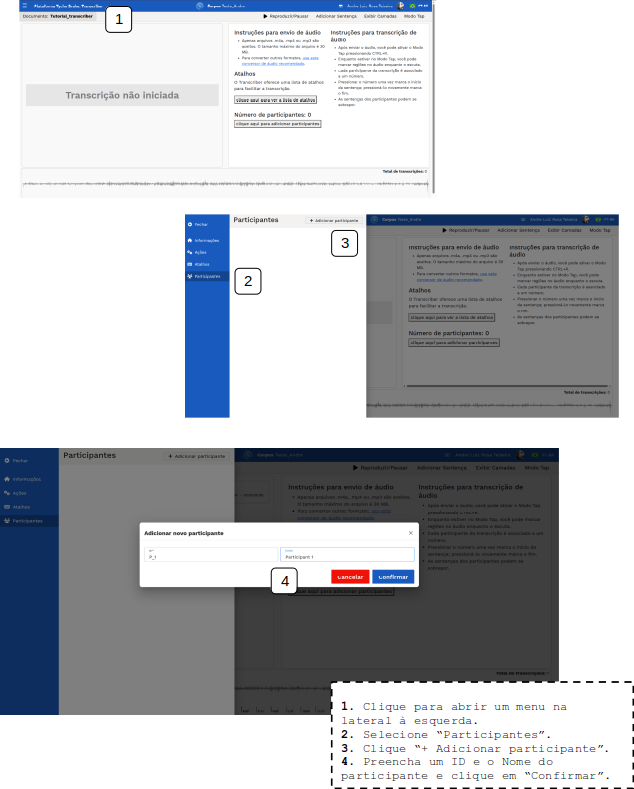
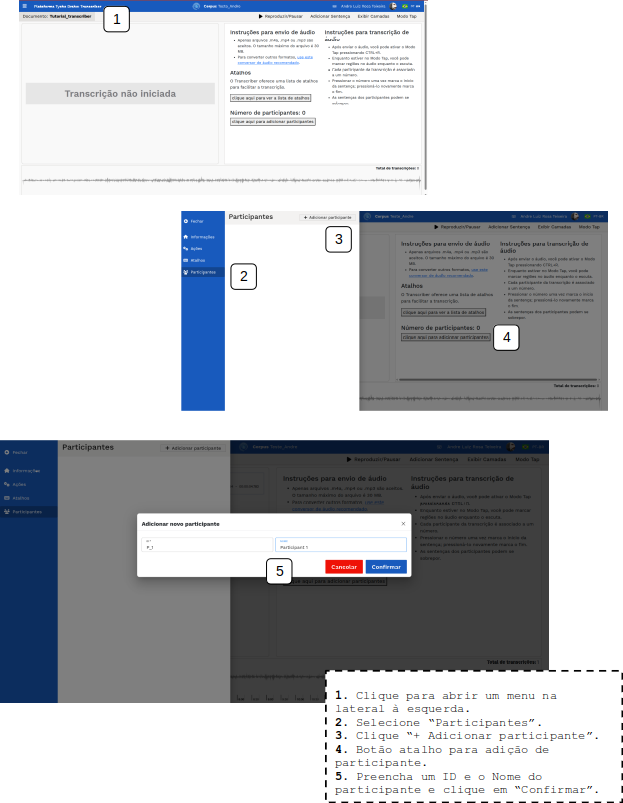
Atualiza 03 july - transcriber finish

diff --git a/casos_de_uso_tutorial/tutorial_caso_12_Transcriber.md b/casos_de_uso_tutorial/tutorial_caso_12_Transcriber.md
@@ -47,7 +47,7 @@ Para a edição de uma transcrição no Transcriber, pressupõe-se que o documen
 O primeiro passo a ser adotado para realizar uma trasncrição é a adição de um áudio.
 Neste tutorial vamos seguir o exemplo de um áudio em karitiana.
 
--**Adicionar áudio**:
+**Adicionar áudio**:
 
 1. No corpus alvo, clique sobre o documento criado para edição no Transcriber.
 2. Clique no ícone para abrir menu de ferramentas de edição.
@@ -68,7 +68,7 @@ Esta é a tela inicial do documento no Transcriber
 
 ![](../imagens/transcriber/transcriber_5.png)
 
-- **Modo Tap**: após realizar a adição de um áudio e a criação de participantes, a ferramenta de "Modo Tap" permite ao usuário tocar o áudio e associar regiões a participantes através das teclas numéricas (a cada participante criado é atribuído um número cardinal do teclado numérico). Para utilizar o "Modo Tap":
+**Modo Tap**: após realizar a adição de um áudio e a criação de participantes (ver abaixo), a ferramenta de "Modo Tap" permite ao usuário tocar o áudio e associar regiões a participantes através das teclas numéricas (a cada participante criado é atribuído um número cardinal do teclado numérico). Para utilizar o "Modo Tap":
 
 1. Clique em “Modo Tap” para abrir a funcionalidade. A tela apresenta as informações como dispostas na imagem:
 2. Ulilize o botão Reproduzir/Pausar para dar início ao áudio.
@@ -79,7 +79,7 @@ Esta é a tela inicial do documento no Transcriber
 
 ![](../imagens/transcriber/transcriber_11.png)
 
-- **Transcrição manual**:
+**Transcrição manual**:
 
 Para realizar uma transcrição de região marcada:
 
@@ -112,25 +112,63 @@ Para adicionar uma Observação e atribuí-la a um outro usuário:
 
 ![](../imagens/transcriber/transcriber_14.png)
 
-- **Editar Informações da transcrição** - para editar informações da transcrição:
+**Editar Informações da transcrição** - para editar informações da transcrição:
 
-1. Clique para abrir um menu na lateral esquerda.
+1. Clique sobre o nome do documento para abrir um menu na lateral esquerda.
 2. Selecione “Informações”.
-3. Os campos são editáveis: clique sobre o campo, edite e confirme.
+3. Os campos são editáveis: clique sobre o campo, preencha as informações e confirme.
 <!--REVISAR:VERIFICAR O QUE CADA CAMPO SIGNIFICA CONCEITUALMENTE?-->
 
 ![](../imagens/transcriber/transcriber_6.png)
 
-- **Ações**: a plataforma disponibiliza algumas ações que podem operar para facilitar e acelerar o processo (como "Importar frases") e algumas ações pós transcrição (como "Dividir arquivo de áudio", "Remover sentenças" e "Remover arquivo de áudio".)
-  
-  - **Dividir arquivo de áudio**: Divida o áudio principal em trechos menores de acordo com os trechos associados aos Participantes no "Modo Tap".<!--Revisar: inserir figura -->
-  - 
+**Ações**: a plataforma disponibiliza algumas ações que podem operar para facilitar e acelerar o processo (como "Importar frases") e algumas ações pós transcrição (como "Dividir arquivo de áudio", "Remover sentenças" e "Remover arquivo de áudio".)
 
-- **Atalhos**: a ferramenta Transcriber disponibiliza alguns atalhos para facilitar a tarefa do transcritor:
+![](../imagens/transcriber/transcriber_15.png)
+
+- **Dividir arquivo de áudio**: Divida o áudio principal em trechos menores de acordo com os trechos associados aos Participantes no "Modo Tap". Após realizar as transcrições (manualmente ou importando) e salvar.
+
+1. Clique sobre o nome do documento para abrir um menu na lateral esquerda.
+2. Selecione “Acões” e “Dividir arquivo de áudio”. Uma mensagem de sucesso é apresentada se não houver problemas. Abre-se uma tela no eDictor apresentando a transcrição original, Tradução da transcrição (importada) e respectivo trecho de áudio dividido e associado à transcrição.
+
+![](../imagens/transcriber/transcriber_18.png)
+
+- **Importar frases**: é possível importar frases previamente transcritas (e potenciais traduções), acelerando o processo de transcrição. **Nota**: para que a importação de frases seja bem-sucedida, é necessário que já tenham sido marcadas regiões no áudio (associadas a participantes) no "Modo Tap" e que o número de regiões marcadas seja exatamente o mesmo que o número de frases a serem importadas. Do contrário a plataforma retorna erro.
+
+1. Clique sobre o nome do documento para abrir um menu na lateral esquerda.
+2. . Clique em “Ações” e “Importar frases”.
+3. Verifique no canto superior direito o número de marcações/transcrições no documento (em [2] na figura a seguir - neste exemplo são 5 transcrições). Lembrando que o número de frases editadas e o número de marcações deve coincidir, do contrário a importação não será bem-sucedida.
+4. Selecione o “Tipo de importação”: Apenas texto original, Apenas tradução, Texto e Tradução.
+5. Selecione “Traduções”: línguas de tradução que serão apresentadas dependerá das línguas configuradas na página de administração do corpus.
+6. Preencha com as sentenças: original e tradução (separado por uma quebra de linha) e separe os pares de sentenças (duas quebras de linha), coincidindo em número com as regiões demarcadas no áudio.
+7. Confirme.
+
+![](../imagens/transcriber/transcriber_16.png)
+
+Com esta importação das frases (e traduções), as transcrições (original e tradução) ficam preenchidas desta forma:
+
+![](../imagens/transcriber/transcriber_17.png)
+
+- **Remover sentenças**:
+
+1. Clique sobre o nome do documento para abrir um menu na lateral esquerda.
+2. Clique em “Ações” e em “Remover sentenças”.
+3. Leia o aviso e confirme (esta ação não pode ser desfeita).
+
+![](../imagens/transcriber/transcriber_19.png)
+
+- **Remover arquivo de áudio**:
+
+1. Clique sobre o nome do documento para abrir um menu na lateral esquerda.
+2. Clique em “Ações” e em “Remover arquivo de áudio.
+3. Leia o aviso e confirme (esta ação não pode ser desfeita).
+
+![](../imagens/transcriber/transcriber_20.png)
+
+**Atalhos**: a ferramenta Transcriber disponibiliza alguns atalhos para facilitar a tarefa do transcritor:
 
 ![](../imagens/transcriber/transcriber_9.png)
 
-- **Adicionar participantes**
+**Participantes**: esta funcionalidade permite a gestão de participantes (criação, edição de informações etc.)
 
 1. Clique para abrir um menu na lateral à esquerda.
 2. Selecione “Participantes”.
@@ -149,7 +187,5 @@ Após a criação do Participante, é possível realizar configurações especí
 ![](../imagens/transcriber/transcriber_8.png)
 
 Para cada um dos Participantes, é atribuido um número cardinal para uso na associação de trecho de áudio a participante no "Modo Tap".
-
-
 
 ---
